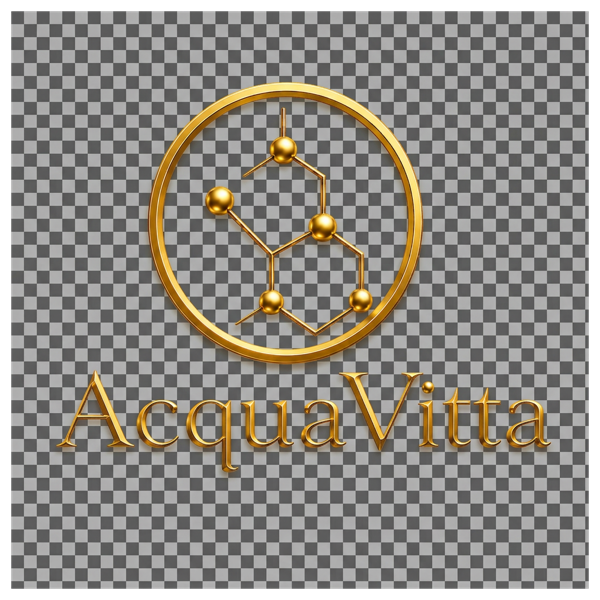
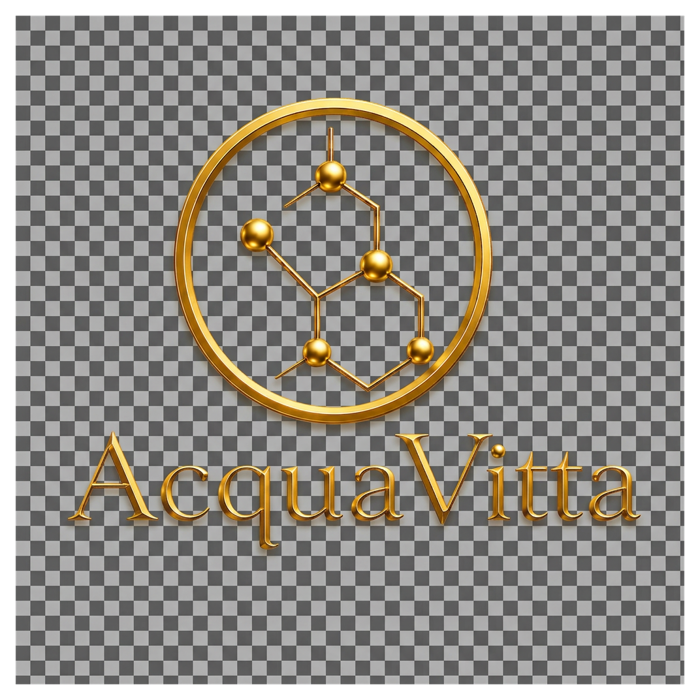
V14

Changed region(s): [[0.0, 0.0, 0.99, 0.99]]

diff --git a/styles.css b/styles.css
@@ -1,71 +1,71 @@
 
 :root{
-  --ivory:#fbf8f3;
+  --ivory:#fcfaf6;
   --cream:#f4eee7;
-  --rose:#e7b9a3;
-  --rose-soft:#f2d8cc;
+  --rose:#ebc2af;
+  --rose-deep:#d89b7e;
   --gold:#b98426;
-  --gold-light:#dbb15c;
-  --ink:#342f2a;
+  --gold2:#dfb861;
+  --charcoal:#352f2a;
   --navy:#17263a;
-  --muted:#756f68;
-  --line:#ded3c6;
+  --muted:#736c65;
+  --line:#ded3c7;
   --white:#fff;
   --max:1240px;
 }
 *{box-sizing:border-box}
 html{scroll-behavior:smooth}
-body{margin:0;background:var(--ivory);color:var(--ink);font-family:Inter,Arial,sans-serif;line-height:1.55}
+body{margin:0;background:var(--ivory);color:var(--charcoal);font-family:Inter,Arial,sans-serif;line-height:1.55}
 img{display:block;max-width:100%}
 a{text-decoration:none;color:inherit}
 .container{width:min(var(--max),calc(100% - 42px));margin:auto}
-.topbar{background:linear-gradient(90deg,#c99842,#e2bd70,#c99842);color:white;text-align:center;padding:9px 16px;font-size:10px;letter-spacing:.17em;text-transform:uppercase}
-.header{position:sticky;top:0;z-index:30;background:rgba(255,253,249,.95);backdrop-filter:blur(16px);border-bottom:1px solid rgba(75,59,42,.10)}
-.nav{height:86px;display:flex;align-items:center;gap:28px}
-.brand{display:flex;align-items:center;gap:12px;min-width:245px}
-.brand img{width:52px;height:52px;object-fit:contain}
-.brand-name{font-family:Georgia,'Times New Roman',serif;font-size:29px;color:var(--gold)}
-.brand-name small{display:block;font-family:Inter,Arial,sans-serif;font-size:7px;letter-spacing:.24em;text-transform:uppercase;color:#a58650;margin-top:-4px}
+.topbar{background:linear-gradient(90deg,#c8953e,#e3bf75,#c8953e);color:white;text-align:center;padding:10px 16px;font-size:10px;letter-spacing:.17em;text-transform:uppercase}
+.header{position:sticky;top:0;z-index:30;background:rgba(255,253,249,.96);backdrop-filter:blur(16px);border-bottom:1px solid rgba(75,59,42,.1)}
+.nav{height:90px;display:flex;align-items:center;gap:28px}
+.brand{display:flex;align-items:center;gap:13px;min-width:265px}
+.brand img{width:58px;height:58px;object-fit:contain}
+.brand-name{font-family:Georgia,'Times New Roman',serif;font-size:31px;color:var(--gold);line-height:1}
+.brand-name small{display:block;font-family:Inter,Arial,sans-serif;font-size:7px;letter-spacing:.25em;text-transform:uppercase;color:#a27f45;margin-top:5px}
 .navlinks{display:flex;gap:26px;margin-left:auto;font-size:11px;letter-spacing:.09em;text-transform:uppercase}
 .navlinks a:hover{color:var(--gold)}
 .actions{display:flex;gap:10px}
-.btn{display:inline-flex;align-items:center;justify-content:center;padding:13px 21px;border:1px solid #b99a65;background:transparent;color:var(--ink);font-size:10px;font-weight:700;letter-spacing:.09em;text-transform:uppercase;transition:.22s}
-.btn:hover{transform:translateY(-2px);box-shadow:0 8px 18px rgba(66,49,30,.10)}
-.btn.gold{background:linear-gradient(135deg,var(--gold-light),var(--gold));border-color:var(--gold);color:white}
+.btn{display:inline-flex;align-items:center;justify-content:center;padding:13px 21px;border:1px solid #b99a65;background:transparent;color:var(--charcoal);font-size:10px;font-weight:700;letter-spacing:.09em;text-transform:uppercase;transition:.22s}
+.btn:hover{transform:translateY(-2px);box-shadow:0 8px 20px rgba(70,50,30,.10)}
+.btn.gold{background:linear-gradient(135deg,var(--gold2),var(--gold));border-color:var(--gold);color:white}
 .btn.navy{background:var(--navy);border-color:var(--navy);color:white}
 .mobile{display:none;margin-left:auto;border:0;background:none;font-size:26px;color:var(--navy)}
-.hero{position:relative;min-height:650px;overflow:hidden;background:#efe7df}
+.hero{position:relative;min-height:650px;overflow:hidden}
 .hero::before{content:"";position:absolute;inset:0;background:
- linear-gradient(90deg,rgba(251,248,243,.98) 0%,rgba(251,248,243,.93) 38%,rgba(251,248,243,.18) 67%,rgba(251,248,243,.06) 100%),
- url('assets/hero-rose-marble.jpg') center/cover no-repeat}
+ linear-gradient(90deg,rgba(252,250,246,.98) 0%,rgba(252,250,246,.92) 39%,rgba(252,250,246,.18) 66%,rgba(252,250,246,.05) 100%),
+ url('assets/hero.jpg') center/cover no-repeat}
 .hero .container{position:relative;z-index:1;min-height:650px;display:flex;align-items:center}
-.hero-copy{width:min(545px,100%);padding:70px 0}
+.hero-copy{width:min(550px,100%);padding:70px 0}
 .eyebrow{font-size:10px;letter-spacing:.19em;text-transform:uppercase;color:var(--gold);font-weight:700}
 h1,h2,h3{font-family:Georgia,'Times New Roman',serif;font-weight:400;margin:0}
-h1{font-size:clamp(54px,6vw,86px);line-height:.94;color:#39332d;margin:17px 0 24px}
+h1{font-size:clamp(54px,6vw,88px);line-height:.94;color:#37312c;margin:18px 0 24px}
 h1 em{font-style:normal;color:var(--gold)}
-.lead{font-size:16px;color:#5e5953;max-width:505px}
-.hero-actions{display:flex;gap:12px;margin:29px 0}
-.hero-icons{display:grid;grid-template-columns:repeat(4,1fr);gap:14px;margin-top:34px}
-.hero-icon{border-top:1px solid #cfa55d;padding-top:12px;font-size:10px;text-transform:uppercase;letter-spacing:.06em;color:#5f5851}
-.noticebox{margin-top:24px;padding:15px 18px;border:1px solid #d6b574;background:rgba(255,255,255,.64);font-size:11px;color:#625d57;max-width:490px}
-.noticebox strong{display:block;color:var(--ink);text-transform:uppercase;letter-spacing:.1em;font-size:10px}
-.compliance{background:#fff;border-top:1px solid var(--line);border-bottom:1px solid var(--line)}
+.lead{font-size:16px;color:#5f5953;max-width:505px}
+.hero-actions{display:flex;gap:12px;margin:30px 0}
+.hero-icons{display:grid;grid-template-columns:repeat(4,1fr);gap:16px;margin-top:35px}
+.hero-icon{border-top:1px solid #cda65e;padding-top:12px;font-size:10px;text-transform:uppercase;letter-spacing:.06em;color:#5f5953}
+.noticebox{margin-top:24px;padding:15px 18px;border:1px solid #d6b574;background:rgba(255,255,255,.67);font-size:11px;color:#625d57;max-width:500px}
+.noticebox strong{display:block;color:var(--charcoal);text-transform:uppercase;letter-spacing:.1em;font-size:10px}
+.compliance{background:white;border-top:1px solid var(--line);border-bottom:1px solid var(--line)}
 .compliance-grid{display:grid;grid-template-columns:1.1fr repeat(5,1fr)}
-.compliance-item{padding:26px 19px;border-right:1px solid var(--line);min-height:120px}
+.compliance-item{padding:27px 19px;border-right:1px solid var(--line);min-height:122px}
 .compliance-item:first-child{border-left:3px solid var(--gold)}
-.compliance-item b{display:block;font-family:Georgia,serif;font-size:36px;color:var(--gold)}
-.compliance-item strong{display:block;font-size:10px;text-transform:uppercase;letter-spacing:.07em;color:var(--ink);margin-bottom:7px}
+.compliance-item b{display:block;font-family:Georgia,serif;font-size:38px;color:var(--gold)}
+.compliance-item strong{display:block;font-size:10px;text-transform:uppercase;letter-spacing:.07em;color:var(--charcoal);margin-bottom:7px}
 .compliance-item p{margin:0;font-size:10px;color:#7a746d}
-.section{padding:88px 0}
-.section-head{text-align:center;max-width:760px;margin:0 auto 40px}
-.section-head h2{font-size:clamp(39px,4.6vw,60px);line-height:1.03;margin:9px 0;color:#403934}
+.section{padding:90px 0}
+.section-head{text-align:center;max-width:780px;margin:0 auto 42px}
+.section-head h2{font-size:clamp(40px,4.6vw,61px);line-height:1.03;margin:10px 0;color:#403934}
 .section-head p{color:var(--muted)}
-.products{display:grid;grid-template-columns:repeat(4,1fr);gap:17px}
+.products{display:grid;grid-template-columns:repeat(4,1fr);gap:18px}
 .card{background:white;border:1px solid var(--line);overflow:hidden;transition:.22s}
-.card:hover{transform:translateY(-5px);box-shadow:0 18px 40px rgba(79,57,35,.12)}
-.card img{width:100%;aspect-ratio:4/4.2;object-fit:cover}
-.card-body{padding:19px}
+.card:hover{transform:translateY(-5px);box-shadow:0 18px 42px rgba(79,57,35,.12)}
+.card img{width:100%;aspect-ratio:1/1;object-fit:cover}
+.card-body{padding:20px}
 .card h3{font-size:24px;color:#3b342f}
 .dose{color:var(--gold);font-weight:700}
 .card p{font-size:12px;color:#7d766e}
@@ -78,7 +78,9 @@ h1 em{font-style:normal;color:var(--gold)}
 .story-copy p{color:#6b655e}
 .brand-section{background:#f8f1ea}
 .brand-grid{display:grid;grid-template-columns:1fr 1fr;gap:55px;align-items:center}
-.brand-image{min-height:430px;background:url('assets/marble-brand.jpg') center/cover no-repeat;border:1px solid #e1d4c7}
+.brand-image{min-height:430px;background:url('assets/brand-marble.jpg') center/cover no-repeat;border:1px solid #e1d4c7}
+.logo-panel{background:white;border:1px solid var(--line);padding:35px;display:grid;place-items:center;min-height:260px;margin-top:20px}
+.logo-panel img{max-width:420px;max-height:220px;object-fit:contain}
 .brand-copy h2{font-size:54px;line-height:1}
 .brand-copy p{color:#6d675f}
 .account{background:white}
@@ -90,7 +92,7 @@ h1 em{font-style:normal;color:var(--gold)}
 .footer{background:#f4eee7;border-top:1px solid var(--line);padding:55px 0 22px}
 .footer-grid{display:grid;grid-template-columns:1.4fr repeat(3,1fr);gap:40px}
 .footer-brand{display:flex;align-items:center;gap:12px}
-.footer-brand img{width:54px}
+.footer-brand img{width:56px}
 .footer h4{font-size:10px;letter-spacing:.13em;text-transform:uppercase;color:var(--gold)}
 .footer a,.footer p{display:block;font-size:12px;color:#7a746c;margin:8px 0}
 .copy{border-top:1px solid #ddd1c4;margin-top:32px;padding-top:18px;font-size:11px;color:#8d857d}
@@ -104,7 +106,7 @@ h1 em{font-style:normal;color:var(--gold)}
 .check{display:flex;gap:10px;align-items:flex-start;margin:13px 0;color:#665f58;font-size:13px}
 @media(max-width:980px){
  .navlinks,.actions{display:none}.mobile{display:block}.brand{min-width:auto}
- .hero::before{background:linear-gradient(90deg,rgba(251,248,243,.98),rgba(251,248,243,.78)),url('assets/hero-rose-marble.jpg') 66% center/cover no-repeat}
+ .hero::before{background:linear-gradient(90deg,rgba(252,250,246,.98),rgba(252,250,246,.78)),url('assets/hero.jpg') 66% center/cover no-repeat}
  .compliance-grid{grid-template-columns:repeat(2,1fr)}
  .products{grid-template-columns:repeat(2,1fr)}
  .story-grid,.brand-grid,.account-grid{grid-template-columns:1fr}
@@ -113,11 +115,11 @@ h1 em{font-style:normal;color:var(--gold)}
 }
 @media(max-width:600px){
  .container{width:min(var(--max),calc(100% - 26px))}
- .topbar{font-size:8px}.nav{height:72px}.brand img{width:43px;height:43px}.brand-name{font-size:23px}
- .hero,.hero .container{min-height:700px}.hero-copy{padding:48px 0}
+ .topbar{font-size:8px}.nav{height:72px}.brand img{width:44px;height:44px}.brand-name{font-size:23px}
+ .hero,.hero .container{min-height:710px}.hero-copy{padding:48px 0}
  h1{font-size:54px}.hero-actions{flex-direction:column;align-items:flex-start}
  .hero-icons{grid-template-columns:repeat(2,1fr)}
  .compliance-grid,.products,.footer-grid{grid-template-columns:1fr}
  .section{padding:64px 0}.story-copy h2,.brand-copy h2,.account h2{font-size:42px}
- .story-copy{padding:45px 22px}
+ .story-copy{padding:45px 22px}.logo-panel img{max-width:290px}
 }

diff --git a/index.html b/index.html
@@ -1,7 +1,7 @@
 <!doctype html><html lang="en"><head><meta charset="utf-8"><meta name="viewport" content="width=device-width,initial-scale=1"><title>AcquaVitta | Molecular Precision</title><meta name="description" content="Research materials presented with documented identity and responsible access."><link rel="stylesheet" href="styles.css"></head><body>
 <div class="topbar">For research use only · Not for human or animal use · 21+ account required</div>
 <header class="header"><div class="container nav">
-<a class="brand" href="index.html"><img src="assets/acquavitta-symbol.png" alt="AcquaVitta"><span class="brand-name">AcquaVitta<small>Molecular Precision</small></span></a>
+<a class="brand" href="index.html"><img src="assets/acquavitta-symbol.png" alt="AcquaVitta logo"><span class="brand-name">AcquaVitta<small>Molecular Precision</small></span></a>
 <button class="mobile" aria-label="Menu">☰</button>
 <nav class="navlinks"><a href="catalog.html">Catalog</a><a href="quality.html">Quality</a><a href="research-policy.html">Research policy</a><a href="about.html">About</a><a href="contact.html">Contact</a></nav>
 <div class="actions"><a class="btn" href="login.html">Sign in</a><a class="btn gold" href="register.html">Create account</a></div>
@@ -9,15 +9,15 @@
 <main>
 <section class="hero"><div class="container"><div class="hero-copy"><div class="eyebrow">AcquaVitta Research Materials</div><h1>Precision.<br>Transparency.<br><em>Research.</em></h1><p class="lead">Research-grade materials presented with documented identity, laboratory restraint and a refined visual language inspired by pale marble and Himalayan rose salt.</p><div class="hero-actions"><a class="btn gold" href="catalog.html">Browse catalog</a><a class="btn" href="quality.html">Quality assurance</a></div><div class="hero-icons"><div class="hero-icon">Documented identity</div><div class="hero-icon">Batch transparency</div><div class="hero-icon">Controlled handling</div><div class="hero-icon">Restricted access</div></div><div class="noticebox"><strong>Research use only</strong>Materials are not intended for human or animal consumption, administration, diagnosis, treatment, cure or prevention.</div></div></div></section>
 <section class="compliance"><div class="container compliance-grid"><div class="compliance-item"><b>21+</b><strong>Account required</strong><p>Adult applicants only.</p></div><div class="compliance-item"><strong>Age 21 or older</strong><p>Applicants must confirm their age.</p></div><div class="compliance-item"><strong>Not for human use</strong><p>Laboratory research contexts only.</p></div><div class="compliance-item"><strong>Not for animal use</strong><p>No veterinary use permitted.</p></div><div class="compliance-item"><strong>Terms & privacy</strong><p>Acceptance required before access.</p></div><div class="compliance-item"><strong>Account access</strong><p>Reserved for approved accounts.</p></div></div></section>
-<section class="section"><div class="container"><div class="section-head"><div class="eyebrow">Controlled catalog</div><h2>Transparent vials. Refined presentation.</h2><p>The new product photography removes black labels and dark stones, replacing them with clear glass, pale marble and Himalayan rose salt.</p><a class="btn gold" href="catalog.html">View full catalog</a></div>
+<section class="section"><div class="container"><div class="section-head"><div class="eyebrow">Controlled catalog</div><h2>Transparent vials. Refined presentation.</h2><p>Clear glass, pale marble and Himalayan rose salt replace dark labels and industrial black stone.</p><a class="btn gold" href="catalog.html">View full catalog</a></div>
 <div class="products">
 <article class="card"><img src="assets/bpc157.jpg" alt="BPC-157 clear vial"><div class="card-body"><h3>BPC-157</h3><div class="dose">5 mg</div><p>Lyophilized research material.</p><a href="register.html">Member access required →</a></div></article>
 <article class="card"><img src="assets/tb500.jpg" alt="TB-500 clear vial"><div class="card-body"><h3>TB-500</h3><div class="dose">5 mg</div><p>Lyophilized research material.</p><a href="register.html">Member access required →</a></div></article>
 <article class="card"><img src="assets/ghkcu.jpg" alt="GHK-Cu clear vial"><div class="card-body"><h3>GHK-Cu</h3><div class="dose">5 mg</div><p>Controlled research listing.</p><a href="register.html">Member access required →</a></div></article>
 <article class="card"><img src="assets/ipamorelin.jpg" alt="Ipamorelin clear vial"><div class="card-body"><h3>Ipamorelin</h3><div class="dose">5 mg</div><p>Lyophilized research material.</p><a href="register.html">Member access required →</a></div></article>
 </div></div></section>
-<section class="story"><div class="story-grid"><div class="story-photo"></div><div class="story-copy"><div class="eyebrow">Science · Integrity · Transparency</div><h2>Supporting research with clarity and control.</h2><p>AcquaVitta combines a soft luxury palette with clear restrictions, documented product identity and an interface designed for qualified laboratory users.</p><a class="btn gold" href="quality.html">Learn more</a></div></div></section>
-<section class="section brand-section"><div class="container brand-grid"><div class="brand-image"></div><div class="brand-copy"><div class="eyebrow">Brand presentation</div><h2>A lighter, more elegant AcquaVitta.</h2><p>The header uses the clean transparent molecular symbol with the AcquaVitta name rendered as live text, ensuring it remains sharp and never appears cut off.</p><p>The complete identity is reinforced through gold, ivory, rose salt and pale marble rather than dark industrial stone.</p></div></div></section>
+<section class="story"><div class="story-grid"><div class="story-photo"></div><div class="story-copy"><div class="eyebrow">Science · Integrity · Transparency</div><h2>Supporting research with clarity and control.</h2><p>AcquaVitta combines premium presentation with clear restrictions, documented product identity and an interface designed for qualified laboratory users.</p><a class="btn gold" href="quality.html">Learn more</a></div></div></section>
+<section class="section brand-section"><div class="container brand-grid"><div class="brand-image"></div><div class="brand-copy"><div class="eyebrow">Official identity</div><h2>The AcquaVitta logo, treated correctly.</h2><p>The header uses the exact transparent molecular symbol you supplied together with a crisp live-text wordmark, so it remains sharp at every screen size.</p><div class="logo-panel"><img src="assets/acquavitta-logo-full.png" alt="Official AcquaVitta logo"></div></div></div></section>
 <section class="section account"><div class="container account-grid"><div><div class="eyebrow">Responsible access</div><h2>Account required before product access.</h2><p>Applicants must be at least 21 years old and agree that all materials are intended exclusively for laboratory research—not for use in humans or animals.</p><a class="btn gold" href="register.html">Create research account</a></div><div class="declarations"><h3>Required declarations</h3><ul><li>Age 21 or older</li><li>No human use</li><li>No animal or veterinary use</li><li>Research use only</li><li>Acceptance of terms and privacy policy</li></ul></div></div></section>
 </main>
 <footer class="footer"><div class="container"><div class="footer-grid">

diff --git a/catalog.html b/catalog.html
@@ -1,12 +1,12 @@
 <!doctype html><html lang="en"><head><meta charset="utf-8"><meta name="viewport" content="width=device-width,initial-scale=1"><title>Controlled Catalog | AcquaVitta</title><link rel="stylesheet" href="styles.css"></head><body>
 <div class="topbar">For research use only · Not for human or animal use · 21+ account required</div>
 <header class="header"><div class="container nav">
-<a class="brand" href="index.html"><img src="assets/acquavitta-symbol.png" alt="AcquaVitta"><span class="brand-name">AcquaVitta<small>Molecular Precision</small></span></a>
+<a class="brand" href="index.html"><img src="assets/acquavitta-symbol.png" alt="AcquaVitta logo"><span class="brand-name">AcquaVitta<small>Molecular Precision</small></span></a>
 <button class="mobile" aria-label="Menu">☰</button>
 <nav class="navlinks"><a href="catalog.html">Catalog</a><a href="quality.html">Quality</a><a href="research-policy.html">Research policy</a><a href="about.html">About</a><a href="contact.html">Contact</a></nav>
 <div class="actions"><a class="btn" href="login.html">Sign in</a><a class="btn gold" href="register.html">Create account</a></div>
 </div></header>
-<section class="page-hero"><div class="container"><div class="eyebrow">Member access</div><h1>Controlled Catalog</h1></div></section><main class="content"><div class="container"><h2>Catalog access is restricted</h2><p>Detailed product specifications and purchase access are reserved for registered adults who accept the AcquaVitta research-use policy.</p><div class='products'><article class='card'><img src='assets/bpc157.jpg'><div class='card-body'><h3>BPC-157</h3><p>Research material · 5 mg</p></div></article><article class='card'><img src='assets/tb500.jpg'><div class='card-body'><h3>TB-500</h3><p>Research material · 5 mg</p></div></article><article class='card'><img src='assets/ghkcu.jpg'><div class='card-body'><h3>GHK-Cu</h3><p>Research material · 5 mg</p></div></article><article class='card'><img src='assets/ipamorelin.jpg'><div class='card-body'><h3>Ipamorelin</h3><p>Research material · 5 mg</p></div></article></div></div></main>
+<section class="page-hero"><div class="container"><div class="eyebrow">Member access</div><h1>Controlled Catalog</h1></div></section><main class="content"><div class="container"><h2>Catalog access is restricted</h2><p>Detailed specifications and purchase access are reserved for registered adults who accept the AcquaVitta research-use policy.</p><div class='products'><article class='card'><img src='assets/bpc157.jpg'><div class='card-body'><h3>BPC-157</h3><p>Research material · 5 mg</p></div></article><article class='card'><img src='assets/tb500.jpg'><div class='card-body'><h3>TB-500</h3><p>Research material · 5 mg</p></div></article><article class='card'><img src='assets/ghkcu.jpg'><div class='card-body'><h3>GHK-Cu</h3><p>Research material · 5 mg</p></div></article><article class='card'><img src='assets/ipamorelin.jpg'><div class='card-body'><h3>Ipamorelin</h3><p>Research material · 5 mg</p></div></article></div></div></main>
 <footer class="footer"><div class="container"><div class="footer-grid">
 <div><div class="footer-brand"><img src="assets/acquavitta-symbol.png" alt=""><span class="brand-name">AcquaVitta<small>Molecular Precision</small></span></div><p>Research materials presented with elegance, transparency and responsible access.</p></div>
 <div><h4>Research</h4><a href="quality.html">Quality standards</a><a href="research-policy.html">Research policy</a><a href="catalog.html">Controlled catalog</a></div>

diff --git a/register.html b/register.html
@@ -1,7 +1,7 @@
 <!doctype html><html lang="en"><head><meta charset="utf-8"><meta name="viewport" content="width=device-width,initial-scale=1"><title>Create Research Account | AcquaVitta</title><link rel="stylesheet" href="styles.css"></head><body>
 <div class="topbar">For research use only · Not for human or animal use · 21+ account required</div>
 <header class="header"><div class="container nav">
-<a class="brand" href="index.html"><img src="assets/acquavitta-symbol.png" alt="AcquaVitta"><span class="brand-name">AcquaVitta<small>Molecular Precision</small></span></a>
+<a class="brand" href="index.html"><img src="assets/acquavitta-symbol.png" alt="AcquaVitta logo"><span class="brand-name">AcquaVitta<small>Molecular Precision</small></span></a>
 <button class="mobile" aria-label="Menu">☰</button>
 <nav class="navlinks"><a href="catalog.html">Catalog</a><a href="quality.html">Quality</a><a href="research-policy.html">Research policy</a><a href="about.html">About</a><a href="contact.html">Contact</a></nav>
 <div class="actions"><a class="btn" href="login.html">Sign in</a><a class="btn gold" href="register.html">Create account</a></div>

diff --git a/research-policy.html b/research-policy.html
@@ -1,7 +1,7 @@
 <!doctype html><html lang="en"><head><meta charset="utf-8"><meta name="viewport" content="width=device-width,initial-scale=1"><title>Research Use Policy | AcquaVitta</title><link rel="stylesheet" href="styles.css"></head><body>
 <div class="topbar">For research use only · Not for human or animal use · 21+ account required</div>
 <header class="header"><div class="container nav">
-<a class="brand" href="index.html"><img src="assets/acquavitta-symbol.png" alt="AcquaVitta"><span class="brand-name">AcquaVitta<small>Molecular Precision</small></span></a>
+<a class="brand" href="index.html"><img src="assets/acquavitta-symbol.png" alt="AcquaVitta logo"><span class="brand-name">AcquaVitta<small>Molecular Precision</small></span></a>
 <button class="mobile" aria-label="Menu">☰</button>
 <nav class="navlinks"><a href="catalog.html">Catalog</a><a href="quality.html">Quality</a><a href="research-policy.html">Research policy</a><a href="about.html">About</a><a href="contact.html">Contact</a></nav>
 <div class="actions"><a class="btn" href="login.html">Sign in</a><a class="btn gold" href="register.html">Create account</a></div>

diff --git a/quality.html b/quality.html
@@ -1,7 +1,7 @@
 <!doctype html><html lang="en"><head><meta charset="utf-8"><meta name="viewport" content="width=device-width,initial-scale=1"><title>Quality Standards | AcquaVitta</title><link rel="stylesheet" href="styles.css"></head><body>
 <div class="topbar">For research use only · Not for human or animal use · 21+ account required</div>
 <header class="header"><div class="container nav">
-<a class="brand" href="index.html"><img src="assets/acquavitta-symbol.png" alt="AcquaVitta"><span class="brand-name">AcquaVitta<small>Molecular Precision</small></span></a>
+<a class="brand" href="index.html"><img src="assets/acquavitta-symbol.png" alt="AcquaVitta logo"><span class="brand-name">AcquaVitta<small>Molecular Precision</small></span></a>
 <button class="mobile" aria-label="Menu">☰</button>
 <nav class="navlinks"><a href="catalog.html">Catalog</a><a href="quality.html">Quality</a><a href="research-policy.html">Research policy</a><a href="about.html">About</a><a href="contact.html">Contact</a></nav>
 <div class="actions"><a class="btn" href="login.html">Sign in</a><a class="btn gold" href="register.html">Create account</a></div>

diff --git a/about.html b/about.html
@@ -1,7 +1,7 @@
 <!doctype html><html lang="en"><head><meta charset="utf-8"><meta name="viewport" content="width=device-width,initial-scale=1"><title>About AcquaVitta | AcquaVitta</title><link rel="stylesheet" href="styles.css"></head><body>
 <div class="topbar">For research use only · Not for human or animal use · 21+ account required</div>
 <header class="header"><div class="container nav">
-<a class="brand" href="index.html"><img src="assets/acquavitta-symbol.png" alt="AcquaVitta"><span class="brand-name">AcquaVitta<small>Molecular Precision</small></span></a>
+<a class="brand" href="index.html"><img src="assets/acquavitta-symbol.png" alt="AcquaVitta logo"><span class="brand-name">AcquaVitta<small>Molecular Precision</small></span></a>
 <button class="mobile" aria-label="Menu">☰</button>
 <nav class="navlinks"><a href="catalog.html">Catalog</a><a href="quality.html">Quality</a><a href="research-policy.html">Research policy</a><a href="about.html">About</a><a href="contact.html">Contact</a></nav>
 <div class="actions"><a class="btn" href="login.html">Sign in</a><a class="btn gold" href="register.html">Create account</a></div>

diff --git a/privacy.html b/privacy.html
@@ -1,7 +1,7 @@
 <!doctype html><html lang="en"><head><meta charset="utf-8"><meta name="viewport" content="width=device-width,initial-scale=1"><title>Privacy Policy | AcquaVitta</title><link rel="stylesheet" href="styles.css"></head><body>
 <div class="topbar">For research use only · Not for human or animal use · 21+ account required</div>
 <header class="header"><div class="container nav">
-<a class="brand" href="index.html"><img src="assets/acquavitta-symbol.png" alt="AcquaVitta"><span class="brand-name">AcquaVitta<small>Molecular Precision</small></span></a>
+<a class="brand" href="index.html"><img src="assets/acquavitta-symbol.png" alt="AcquaVitta logo"><span class="brand-name">AcquaVitta<small>Molecular Precision</small></span></a>
 <button class="mobile" aria-label="Menu">☰</button>
 <nav class="navlinks"><a href="catalog.html">Catalog</a><a href="quality.html">Quality</a><a href="research-policy.html">Research policy</a><a href="about.html">About</a><a href="contact.html">Contact</a></nav>
 <div class="actions"><a class="btn" href="login.html">Sign in</a><a class="btn gold" href="register.html">Create account</a></div>

diff --git a/terms.html b/terms.html
@@ -1,7 +1,7 @@
 <!doctype html><html lang="en"><head><meta charset="utf-8"><meta name="viewport" content="width=device-width,initial-scale=1"><title>Terms of Use | AcquaVitta</title><link rel="stylesheet" href="styles.css"></head><body>
 <div class="topbar">For research use only · Not for human or animal use · 21+ account required</div>
 <header class="header"><div class="container nav">
-<a class="brand" href="index.html"><img src="assets/acquavitta-symbol.png" alt="AcquaVitta"><span class="brand-name">AcquaVitta<small>Molecular Precision</small></span></a>
+<a class="brand" href="index.html"><img src="assets/acquavitta-symbol.png" alt="AcquaVitta logo"><span class="brand-name">AcquaVitta<small>Molecular Precision</small></span></a>
 <button class="mobile" aria-label="Menu">☰</button>
 <nav class="navlinks"><a href="catalog.html">Catalog</a><a href="quality.html">Quality</a><a href="research-policy.html">Research policy</a><a href="about.html">About</a><a href="contact.html">Contact</a></nav>
 <div class="actions"><a class="btn" href="login.html">Sign in</a><a class="btn gold" href="register.html">Create account</a></div>

diff --git a/contact.html b/contact.html
@@ -1,7 +1,7 @@
 <!doctype html><html lang="en"><head><meta charset="utf-8"><meta name="viewport" content="width=device-width,initial-scale=1"><title>Contact | AcquaVitta</title><link rel="stylesheet" href="styles.css"></head><body>
 <div class="topbar">For research use only · Not for human or animal use · 21+ account required</div>
 <header class="header"><div class="container nav">
-<a class="brand" href="index.html"><img src="assets/acquavitta-symbol.png" alt="AcquaVitta"><span class="brand-name">AcquaVitta<small>Molecular Precision</small></span></a>
+<a class="brand" href="index.html"><img src="assets/acquavitta-symbol.png" alt="AcquaVitta logo"><span class="brand-name">AcquaVitta<small>Molecular Precision</small></span></a>
 <button class="mobile" aria-label="Menu">☰</button>
 <nav class="navlinks"><a href="catalog.html">Catalog</a><a href="quality.html">Quality</a><a href="research-policy.html">Research policy</a><a href="about.html">About</a><a href="contact.html">Contact</a></nav>
 <div class="actions"><a class="btn" href="login.html">Sign in</a><a class="btn gold" href="register.html">Create account</a></div>

diff --git a/login.html b/login.html
@@ -1,7 +1,7 @@
 <!doctype html><html lang="en"><head><meta charset="utf-8"><meta name="viewport" content="width=device-width,initial-scale=1"><title>Sign In | AcquaVitta</title><link rel="stylesheet" href="styles.css"></head><body>
 <div class="topbar">For research use only · Not for human or animal use · 21+ account required</div>
 <header class="header"><div class="container nav">
-<a class="brand" href="index.html"><img src="assets/acquavitta-symbol.png" alt="AcquaVitta"><span class="brand-name">AcquaVitta<small>Molecular Precision</small></span></a>
+<a class="brand" href="index.html"><img src="assets/acquavitta-symbol.png" alt="AcquaVitta logo"><span class="brand-name">AcquaVitta<small>Molecular Precision</small></span></a>
 <button class="mobile" aria-label="Menu">☰</button>
 <nav class="navlinks"><a href="catalog.html">Catalog</a><a href="quality.html">Quality</a><a href="research-policy.html">Research policy</a><a href="about.html">About</a><a href="contact.html">Contact</a></nav>
 <div class="actions"><a class="btn" href="login.html">Sign in</a><a class="btn gold" href="register.html">Create account</a></div>

diff --git a/README.md b/README.md
@@ -1,15 +1,21 @@
-# AcquaVitta V13 — Rose Marble
+# AcquaVitta V14 Complete
 
 Static HTML/CSS/JS site for GitHub and Vercel.
 
-Changes:
-- Transparent clear vials with the AcquaVitta mark directly on the glass.
-- No black labels.
-- No black stones.
-- Pale marble and Himalayan rose salt visual direction.
-- Header logo uses a clean transparent symbol plus live text to prevent cropping and blur.
+## Improvements
+- Correct AcquaVitta molecular symbol from the supplied transparent PNG.
+- Full logo cleaned and included without stretching.
+- Clear vials with gold branding.
+- Pale marble and Himalayan rose salt direction.
+- Responsive desktop/mobile design.
+- Catalog, quality, research policy, about, contact, login, registration, privacy and terms pages.
 
-Framework preset in Vercel: Other.
-No build command required.
+## Deploy
+Copy the contents of this folder into the root of the GitHub repository connected to Vercel.
 
-Login, registration, contact and checkout remain demonstration interfaces until secure backend services are connected.
+Vercel:
+- Framework preset: Other
+- Build command: blank
+- Output directory: blank
+
+Authentication, contact forms, certificate search and checkout are demonstration interfaces only until secure backend services are connected.
